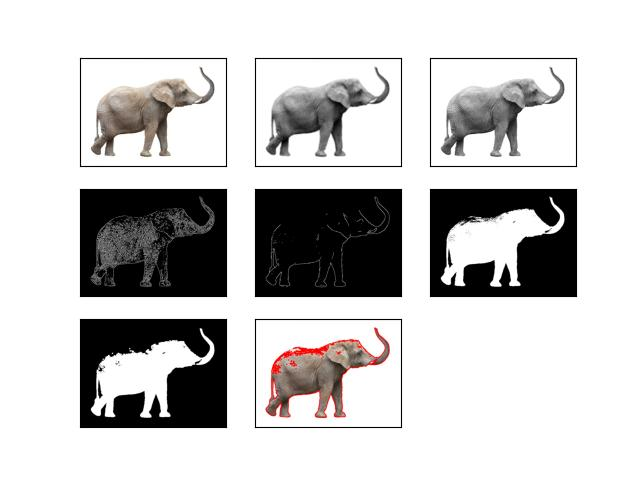
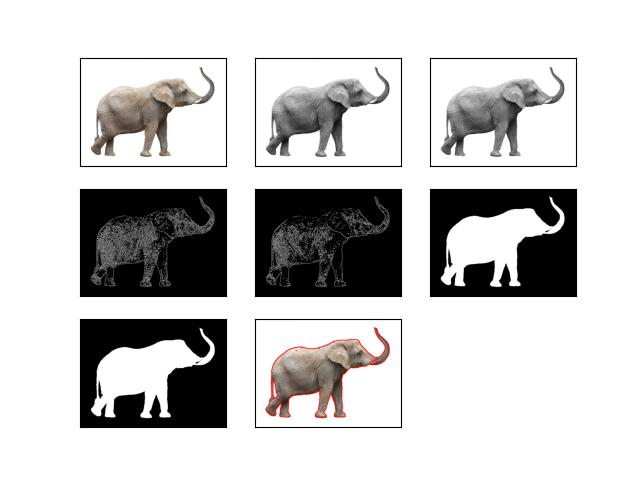
tetes de treshold

diff --git a/main.py b/main.py
@@ -17,7 +17,7 @@ def opMorfo(img, dir):
     _, thresh = cv2.threshold(img_gray, a/2+100, a,cv2.THRESH_BINARY_INV)
 
     #preparando o "kernel"
-    kernel = np.ones((12,12), np.uint8)
+    kernel = np.ones((16,16), np.uint8)
 
 
     #operadores Morfologicos
@@ -66,7 +66,7 @@ def espacoCores(img, dir):
     plt.savefig(f'{dir}/espacoCores.jpg')
     plt.close()
 
-def contorno(img, dir):
+def contorno(img, dir, ki, ti):
     #Importa e converta para RGB
     img = cv2.imread(img)
     img = cv2.cvtColor(img, cv2.COLOR_BGR2RGB)
@@ -74,9 +74,9 @@ def contorno(img, dir):
     #Convertendo para preto e branco (RGB -> Gray Scale -> BW)
     img_gray = cv2.cvtColor(img, cv2.COLOR_RGB2GRAY)
     a = img_gray.max()
-    _, thresh = cv2.threshold(img_gray, a/2*1.7, a,cv2.THRESH_BINARY_INV)
+    _, thresh = cv2.threshold(img_gray, a/2*ti, a,cv2.THRESH_BINARY_INV)
 
-    tamanhoKernel = 5
+    tamanhoKernel = ki
     kernel = np.ones((tamanhoKernel,tamanhoKernel), np.uint8)
     thresh_open = cv2.morphologyEx(thresh, cv2.MORPH_OPEN, kernel)
 
@@ -95,8 +95,10 @@ def contorno(img, dir):
     final = cv2.drawContours(img_copy, contours, contourIdx = -1,color = (255, 0, 0), thickness = 2)
 
     #plot imagens
-    imagens = [img,img_blur,img_gray,edges_gray,edges_blur,thresh,thresh_open,final]
+    # imagens = [img,img_blur,img_gray,edges_gray,edges_blur,thresh,thresh_open,final]
+    imagens = [final]
     formatoX = math.ceil(len(imagens)**.5)
+
     if (formatoX**2-len(imagens))>formatoX:
         formatoY = formatoX-1
     else:
@@ -105,14 +107,20 @@ def contorno(img, dir):
         plt.subplot(formatoY, formatoX, i + 1)
         plt.imshow(imagens[i],'gray')
         plt.xticks([]),plt.yticks([])
-    plt.savefig(f'{dir}/contorno.jpg')
+    plt.savefig(f'{dir}/contorno-k:{ki}-t:{ti:.4f}.jpg')
     plt.close()
 
-imagem = "./imagens/cyberGuilherme.jpg"
-diretorio = "./imagens/cyberWachs"
+imagem = "./imagens/CASTELO_01.jpg"
+diretorio = "./imagens/castelo"
 
-opMorfo(imagem, diretorio)
-espacoCores(imagem, diretorio)
-contorno(imagem, diretorio)
+#opMorfo(imagem, diretorio)
+#espacoCores(imagem, diretorio)
+
+# CAStelop - k de 0 a 10 n muda; tresh 1.4
+# aviao - k7 oy k5; t 1.1 ou 1.350
+
+for i in range (1, 12):
+    tresh = 1.4
+    contorno(imagem, diretorio, i, tresh)
 
 print("Concluído!")
